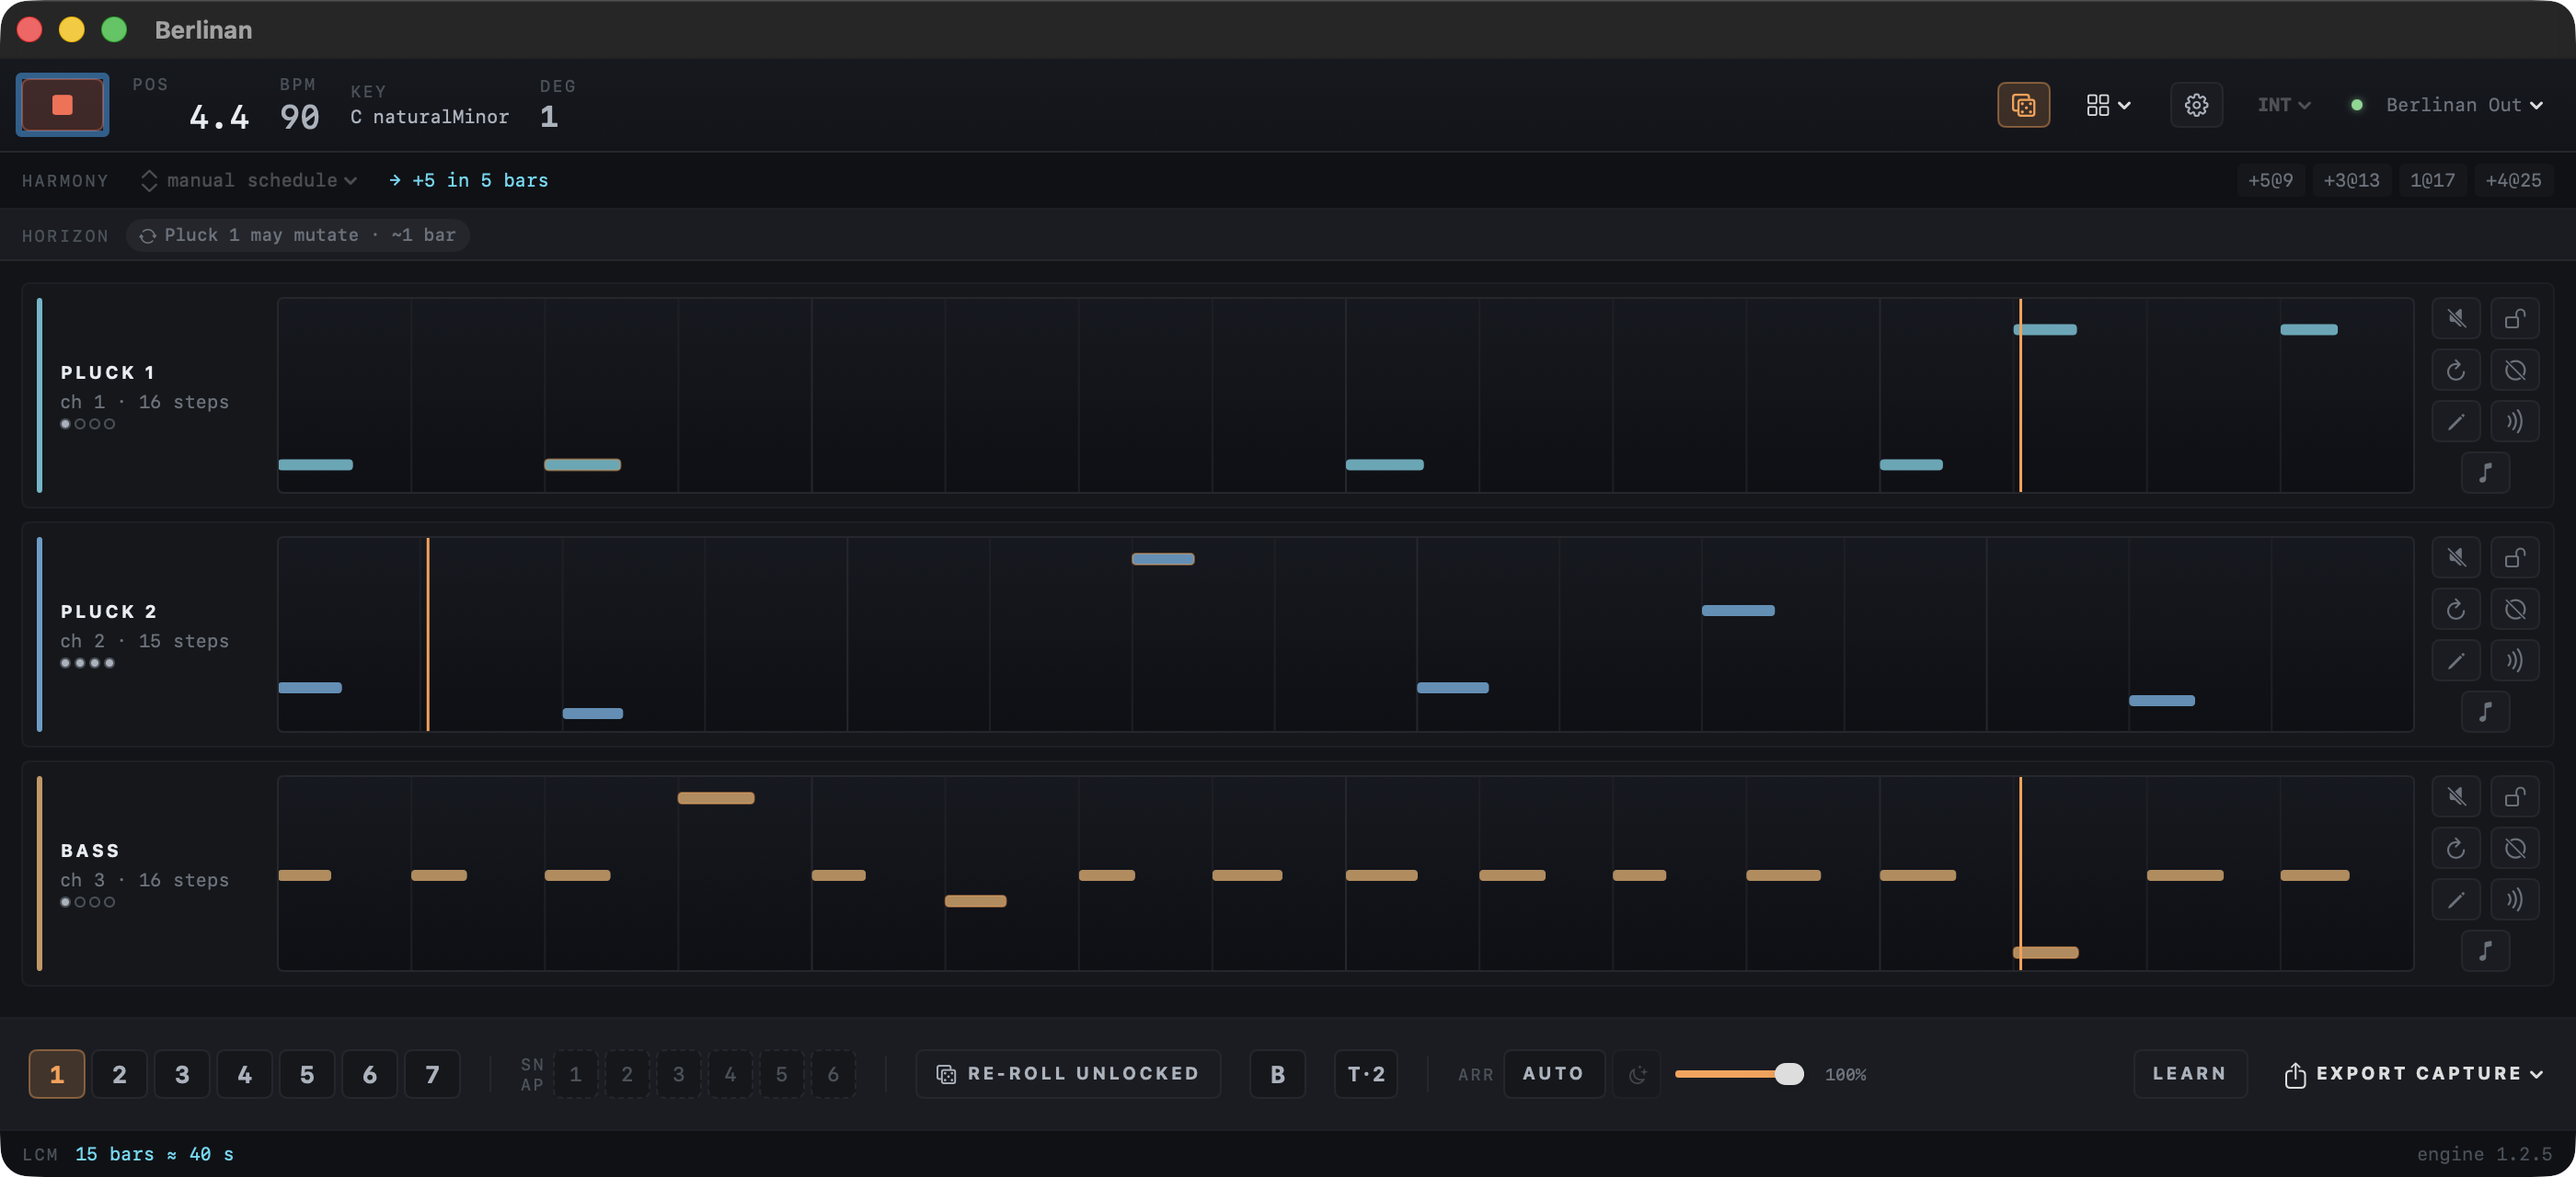
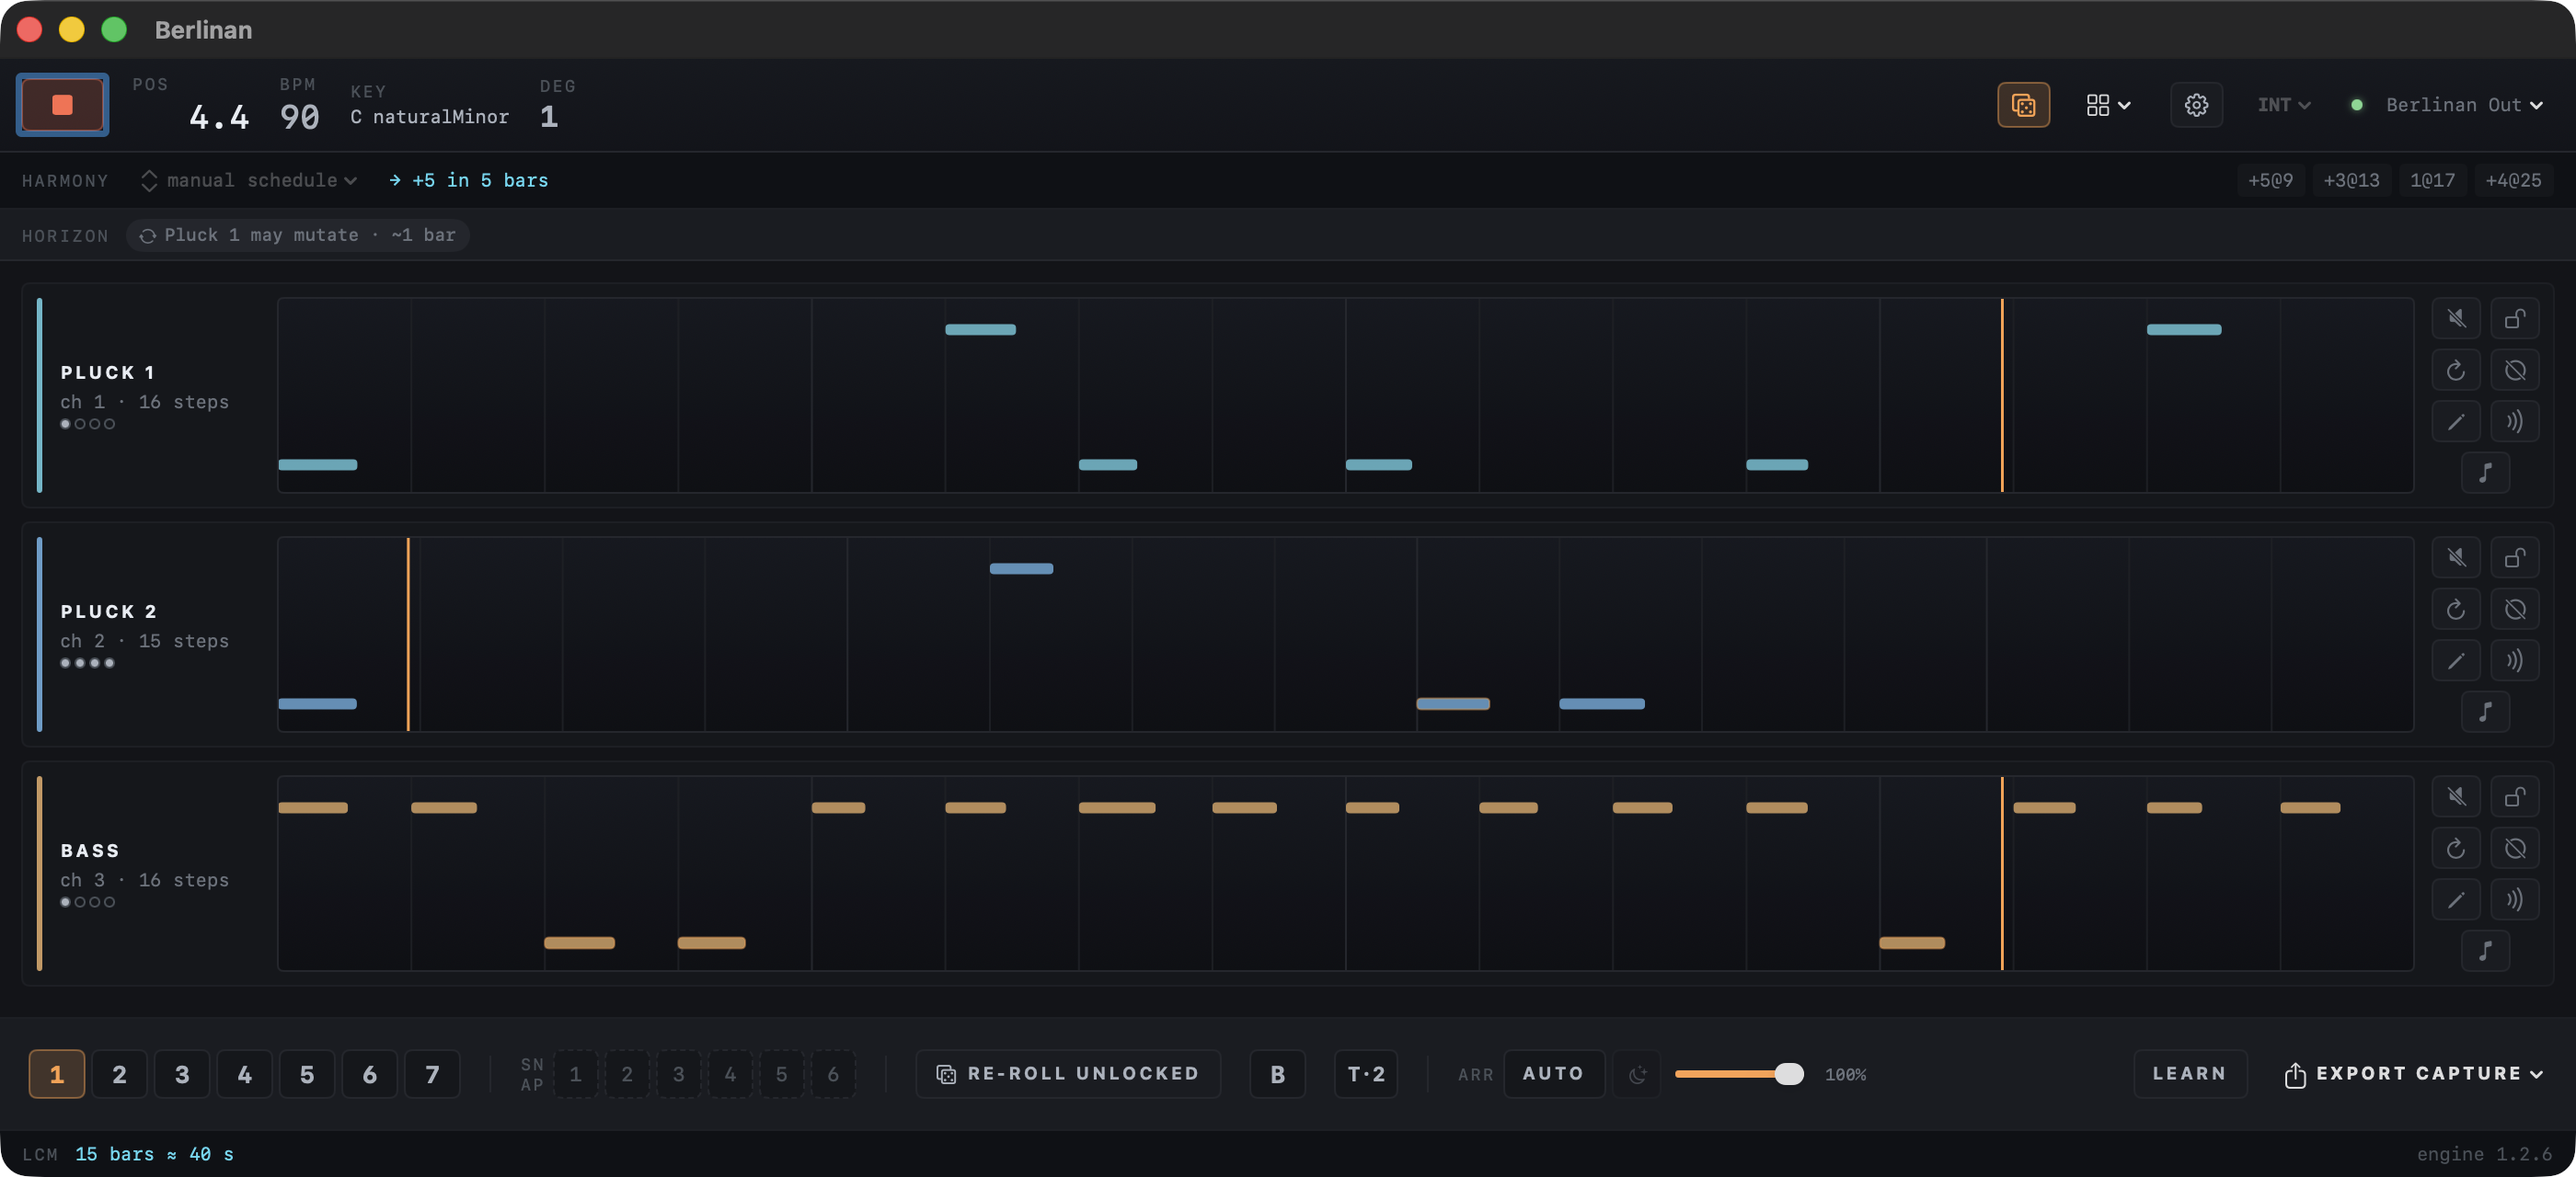
chore(release): v1.2.6 — version bump, CHANGELOG, website links, takes text, screenshot

diff --git a/docs/index.html b/docs/index.html
@@ -242,11 +242,11 @@
       over time, the way a modular jam does.
     </p>
     <div class="actions">
-      <a class="button" href="https://github.com/jiripisa/berlinan/releases/download/v1.2.5/Berlinan-1.2.5.dmg">
+      <a class="button" href="https://github.com/jiripisa/berlinan/releases/download/v1.2.6/Berlinan-1.2.6.dmg">
         <svg viewBox="0 0 20 20" fill="none" stroke="currentColor" stroke-width="2" aria-hidden="true"><path d="M10 3v10m0 0-4-4m4 4 4-4M4 16h12" stroke-linecap="round" stroke-linejoin="round"/></svg>
         Download for macOS
       </a>
-      <span class="meta">Version 1.2.5 for macOS 14 or later. Free and <a href="https://github.com/jiripisa/berlinan">open source</a>.</span>
+      <span class="meta">Version 1.2.6 for macOS 14 or later. Free and <a href="https://github.com/jiripisa/berlinan">open source</a>.</span>
     </div>
 
     <div class="machine" aria-label="Animated example of three sequencer voices phasing against each other">
@@ -350,7 +350,7 @@
         <li><b>Density and ambient mode</b>Thin out or fill the whole mix, or slow changes down to about one a minute.</li>
         <li><b>Melody extraction</b>Pulls a few accented notes out of a sequence and grows them into a lead line.</li>
         <li><b>Scenes</b>Morph your synths’ mapped controls toward a named timbre over eight bars.</li>
-        <li><b>Capture</b>The last hour is always recorded. Export bars as a multitrack MIDI file or drag a pattern into a Live clip slot.</li>
+        <li><b>Capture</b>Every play-to-stop pass is kept as a take. Name your best ones, save them as multitrack MIDI files or drag them straight into Live.</li>
         <li><b>MIDI learn</b>Map play, degrees, new seed and snapshots to your controller and leave the laptop alone.</li>
       </ul>
     </div>
@@ -367,7 +367,7 @@
             security warnings. Drag Berlinan to Applications and press play.
           </p>
           <div class="actions" style="margin-top: 1.25rem">
-            <a class="button" href="https://github.com/jiripisa/berlinan/releases/download/v1.2.5/Berlinan-1.2.5.dmg">Download version 1.2.5</a>
+            <a class="button" href="https://github.com/jiripisa/berlinan/releases/download/v1.2.6/Berlinan-1.2.6.dmg">Download version 1.2.6</a>
           </div>
           <p style="margin-top: 1.25rem"><a href="https://github.com/jiripisa/berlinan/releases">Release notes and earlier versions</a></p>
         </div>

diff --git a/Sources/BerlinanEngine/EngineInfo.swift b/Sources/BerlinanEngine/EngineInfo.swift
@@ -3,5 +3,5 @@ public enum EngineInfo {
     /// Semantic version of the engine. Pre-1.0 scheme: 0.<milestone>.<patch>
     /// (development_workflow.md §4.5). Kept in sync with Resources/Info.plist
     /// by the release procedure.
-    public static let version = "1.2.5"
+    public static let version = "1.2.6"
 }

diff --git a/CHANGELOG.md b/CHANGELOG.md
@@ -1,6 +1,6 @@
 # Changelog
 
-## Unreleased
+## 1.2.6 — 2026-10-25
 
 - Takes (capture browser): every play → stop pass is recorded as a take.
   **Window ▸ Takes** (also in the Export Capture menu) lists them newest
